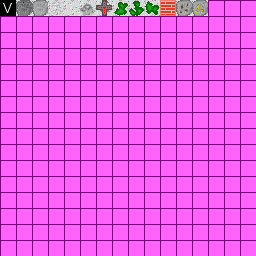
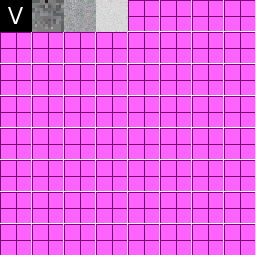
Neues Hintergrundformat

Changed region(s): [[0.0, 0.0, 1.0, 1.0]]

diff --git a/src/de/_13ducks/spacebatz/client/graphics/controls/GodControl.java b/src/de/_13ducks/spacebatz/client/graphics/controls/GodControl.java
@@ -191,23 +191,25 @@ public class GodControl implements Control {
         renderer.getCamera().setPanY((float) -GameClient.getPlayer().getY() + camera.getTilesY() / 2.0f);
 
 
-
+        // Boden und Wände zeichnen
+        float panX = renderer.getCamera().getPanX();
+        float panY = renderer.getCamera().getPanY();
         groundTiles.bind(); // groundTiles-Textur wird jetzt verwendet
-        for (int x = -(int) (1 + renderer.getCamera().getPanX()); x < -(1 + renderer.getCamera().getPanX()) + camera.getTilesX() + 2; x++) {
-            for (int y = -(int) (1 + renderer.getCamera().getPanY()); y < -(1 + renderer.getCamera().getPanY()) + camera.getTilesY() + 2; y++) {
-                int tex = textWriter.texAt(GameClient.currentLevel.getGround(), x, y);
+        for (int x = -(int) (1 + panX); x < -(1 + panX) + camera.getTilesX() + 2; x++) {
+            for (int y = -(int) (1 + panY); y < -(1 + panY) + camera.getTilesY() + 2; y++) {
+                int tex = texAt(GameClient.currentLevel.getGround(), x, y);
                 int tx = tex % 16;
                 int ty = tex / 16;
                 glBegin(GL_QUADS); // QUAD-Zeichenmodus aktivieren
-                glTexCoord2f(tx * 0.0625f, ty * 0.0625f); // Obere linke Ecke auf der Tilemap (Werte von 0 bis 1)
-                glVertex3f(x + renderer.getCamera().getPanX(), y + 1 + renderer.getCamera().getPanY(), 0); // Obere linke Ecke auf dem Bildschirm (Werte wie eingestellt (Anzahl ganzer Tiles))
+                glTexCoord2f(tx * 0.125f + 0.00390625f, ty * 0.125f + 0.00390625f); // Obere linke Ecke auf der Tilemap (Werte von 0 bis 1)
+                glVertex3f(x + panX, y + 1 + panY, 0); // Obere linke Ecke auf dem Bildschirm (Werte wie eingestellt (Anzahl ganzer Tiles))
                 // Die weiteren 3 Ecken im Uhrzeigersinn:
-                glTexCoord2f((tx + 1) * 0.0625f, ty * 0.0625f);
-                glVertex3f(x + 1 + renderer.getCamera().getPanX(), y + 1 + renderer.getCamera().getPanY(), 0);
-                glTexCoord2f((tx + 1) * 0.0625f, (ty + 1) * 0.0625f);
-                glVertex3f(x + 1 + renderer.getCamera().getPanX(), y + renderer.getCamera().getPanY(), 0);
-                glTexCoord2f(tx * 0.0625f, (ty + 1) * 0.0625f);
-                glVertex3f(x + renderer.getCamera().getPanX(), y + renderer.getCamera().getPanY(), 0);
+                glTexCoord2f(tx * 0.125f + 0.12109375f, ty * 0.125f + 0.00390625f);
+                glVertex3f(x + 1 + panX, y + 1 + panY, 0);
+                glTexCoord2f(tx * 0.125f + 0.12109375f, ty * 0.125f + 0.12109375f);
+                glVertex3f(x + 1 + panX, y + panY, 0);
+                glTexCoord2f(tx * 0.125f + 0.00390625f, ty * 0.125f + 0.12109375f);
+                glVertex3f(x + panX, y + panY, 0);
                 glEnd(); // Zeichnen des QUADs fertig
             }
         }
@@ -320,6 +322,14 @@ public class GodControl implements Control {
             }
         }
 
+    }
+
+    private static int texAt(int[][] layer, int x, int y) {
+        if (x < 0 || y < 0 || x >= layer.length || y >= layer[0].length) {
+            return 0;
+        } else {
+            return layer[x][y];
+        }
     }
 
     /**

diff --git a/src/de/_13ducks/spacebatz/util/mapgen/modules/Rasterizer.java b/src/de/_13ducks/spacebatz/util/mapgen/modules/Rasterizer.java
@@ -77,7 +77,7 @@ public class Rasterizer extends Module {
                     map.collision[x][y] = true;
                 } else {
                     if (poly.spawn || poly.texture == 0) {
-                        map.groundTex[x][y] = 4;
+                        map.groundTex[x][y] = 3;
                     } else {
                         // Angeforderte Textur setzen
                         map.groundTex[x][y] = poly.texture;

diff --git a/src/de/_13ducks/spacebatz/client/graphics/TextWriter.java b/src/de/_13ducks/spacebatz/client/graphics/TextWriter.java
@@ -133,12 +133,4 @@ public class TextWriter {
         }
         glColor3f(1f, 1f, 1f);
     }
-
-    public int texAt(int[][] layer, int x, int y) {
-        if (x < 0 || y < 0 || x >= layer.length || y >= layer[0].length) {
-            return 0;
-        } else {
-            return layer[x][y];
-        }
-    }
 }
